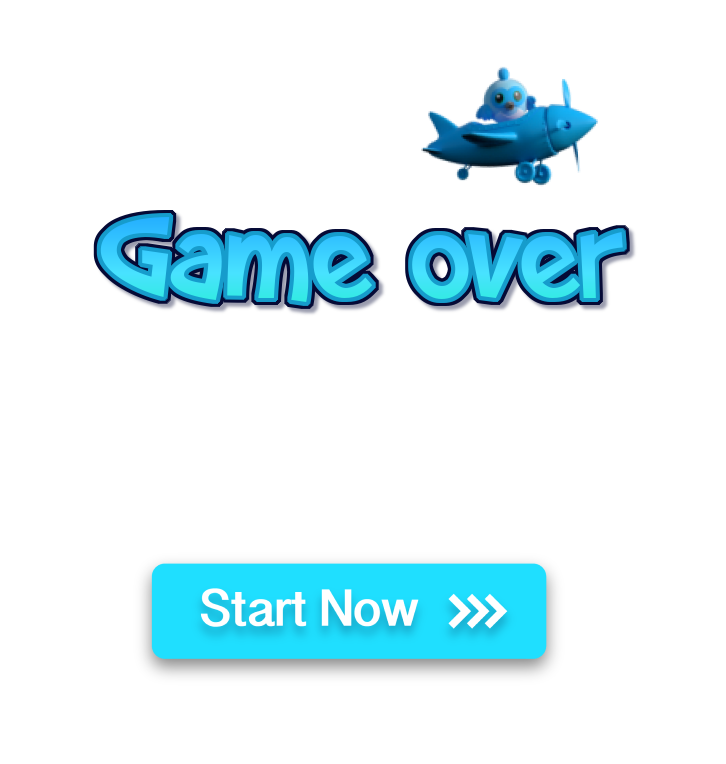
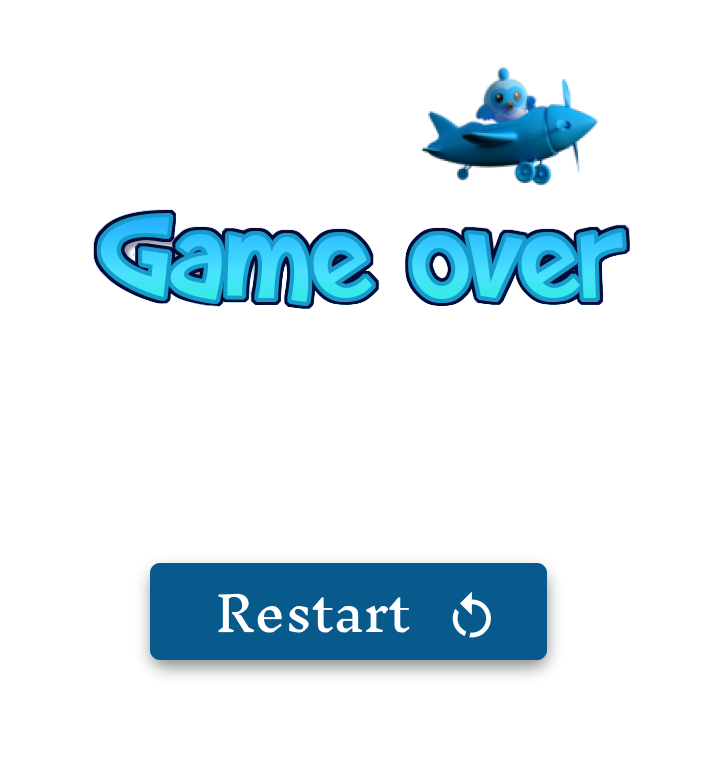
added score

diff --git a/lib/game/dash_plane_game.dart b/lib/game/dash_plane_game.dart
@@ -1,6 +1,9 @@
+import 'dart:ui';
+
 import 'package:flame/events.dart';
 import 'package:flame/game.dart';
 import 'package:flame/timer.dart';
+import 'package:flutter/material.dart';
 import 'package:flutter_dash_plane/components/background.dart';
 import 'package:flutter_dash_plane/components/ground.dart';
 
@@ -10,10 +13,12 @@ import 'configuration.dart';
 
 class DashPlaneGame extends FlameGame with TapDetector, HasCollisionDetection {
   late FlyPlane plane;
+
   Timer intrvel = Timer(
     Config.pipeIntervel,
     repeat: true,
   );
+  int score = 0;
   @override
   Future<void> onLoad() async {
     add(Background());
@@ -21,7 +26,22 @@ class DashPlaneGame extends FlameGame with TapDetector, HasCollisionDetection {
       Ground(),
       plane = FlyPlane(),
     ]);
-    intrvel.onTick = () => add(TreeGroup());
+    intrvel.onTick = () {
+      add(TreeGroup());
+      score++;
+    };
+  }
+
+  @override
+  void render(Canvas canvas) {
+    super.render(canvas);
+    // Render the score on the top-left corner of the screen
+    final textStyle = TextStyle(color: Colors.black, fontSize: 20);
+    final textSpan = TextSpan(text: 'Score: $score', style: textStyle);
+    final textPainter =
+        TextPainter(text: textSpan, textDirection: TextDirection.ltr);
+    textPainter.layout(minWidth: 0, maxWidth: 200);
+    textPainter.paint(canvas, Offset(10, 10));
   }
 
   @override

diff --git a/lib/screens/game_over.dart b/lib/screens/game_over.dart
@@ -1,6 +1,9 @@
+import 'package:flame/src/components/core/component.dart';
 import 'package:flutter/material.dart';
 import 'package:flutter_dash_plane/game/assets.dart';
 import 'package:flutter_dash_plane/game/dash_plane_game.dart';
+
+import '../components/tree_group.dart';
 
 class GameOverScreen extends StatelessWidget {
   final DashPlaneGame game;
@@ -13,16 +16,28 @@ class GameOverScreen extends StatelessWidget {
     return Container(
       width: double.infinity,
       height: double.infinity,
-      // decoration: BoxDecoration(
-      //     image: DecorationImage(
-      // image: AssetImage(Assets.menu),
-      // )),
+      decoration: BoxDecoration(
+          image: DecorationImage(
+        image: AssetImage(
+          Assets.gameOver,
+        ),
+      )),
       child: GestureDetector(
         onTap: () {
           game.plane.reset();
+          game.score = 0;
+          game.removeWhere((c) => c is TreeGroup);
+          game.resumeEngine();
           game.overlays.remove('gameOver');
         },
-        child: Image.asset(Assets.gameOver),
+        child: Center(
+            child: Text(
+          "Your Score is ${game.score}",
+          style: TextStyle(
+            color: Colors.black,
+            fontSize: 30,
+          ),
+        )),
       ),
     );
   }

diff --git a/lib/main.dart b/lib/main.dart
@@ -1,7 +1,7 @@
 import 'package:flame/game.dart';
 import 'package:flutter/material.dart';
 import 'package:flutter_dash_plane/screens/main_menu_scree.dart';
-
+//!https://github.com/don-k-jacob/flutter_dash_plane
 import 'game/dash_plane_game.dart';
 import 'screens/game_over.dart';
 

diff --git a/lib/components/plane.dart b/lib/components/plane.dart
@@ -29,7 +29,7 @@ class FlyPlane extends SpriteGroupComponent<PlaneMovement>
       PlaneMovement.middle: planeMid,
       PlaneMovement.down: planeDown
     };
-    add(CircleHitbox());
+    add(CircleHitbox(radius: 30));
 
     return super.onLoad();
   }
